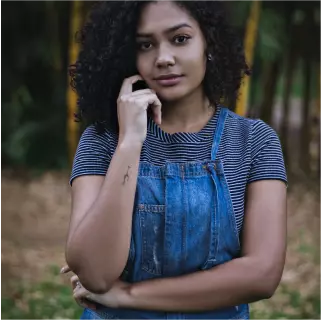
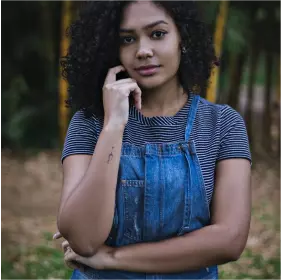
.

diff --git a/assets/style.css b/assets/style.css
@@ -53,7 +53,7 @@ h3{
   padding-inline: 100px;
   padding-block: 100px;
   position: relative;
-  min-height: 630px;
+  min-height: 635px;
 }
 
 
@@ -291,7 +291,7 @@ input[type="submit"] {
     
   }
   .picture img {
-    width: 320px;
+    width: 270px;
     height: auto;
   }
   .picture.left::before {
